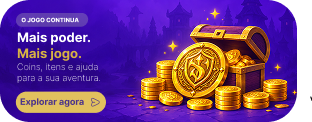
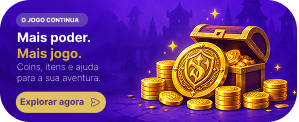
add section image home and categories

diff --git a/src/screens/HomeScreen.js b/src/screens/HomeScreen.js
@@ -52,6 +52,28 @@ export default function HomeScreen({ navigation }) {
           placeholderTextColor="#888"
         />
       </View>
+
+      {/* Section image Home */}
+
+      <View style={styles.contHome}>
+        <Image
+          source={require("../../assets/homeImage.png")}
+          style={styles.homeImage}
+        ></Image>
+      </View>
+
+      {/* Section Text what are you looking for? */}
+      <View style={styles.conttSearch}>
+        <Text style={styles.textSearch}>O que você procura?</Text>
+      </View>
+
+      {/* Section container giro / categories */}
+
+      <View style={styles.containerGc}>
+        <View style={styles.giroCoin}></View>
+
+        <View style={styles.categories}></View>
+      </View>
     </SafeAreaView>
   );
 }
@@ -117,5 +139,45 @@ const styles = StyleSheet.create({
     height: "100%",
     fontSize: 14,
     color: "#8E8E93",
+  },
+  contHome: {
+    width: "100%",
+    alignItems: "center",
+    justifyContent: "center",
+    paddingTop: 25,
+  },
+  homeImage: {
+    width: 400,
+    height: 150,
+    borderRadius: 30,
+    resizeMode: "cover",
+  },
+  conttSearch: {
+    padding: 20,
+  },
+  textSearch: {
+    color: "#000000",
+    fontSize: 15,
+    fontWeight: "bold",
+    fontFamily: "Inter",
+  },
+  containerGc: {
+    width: "100%",
+    flexDirection: "row",
+    alignItems: "center",
+    justifyContent: "center",
+    gap: 10,
+  },
+  giroCoin: {
+    width: 200,
+    height: 80,
+    borderRadius: 20,
+    backgroundColor: "#DCDCDC",
+  },
+  categories: {
+    width: 200,
+    height: 80,
+    borderRadius: 20,
+    backgroundColor: "#DCDCDC",
   },
 });
